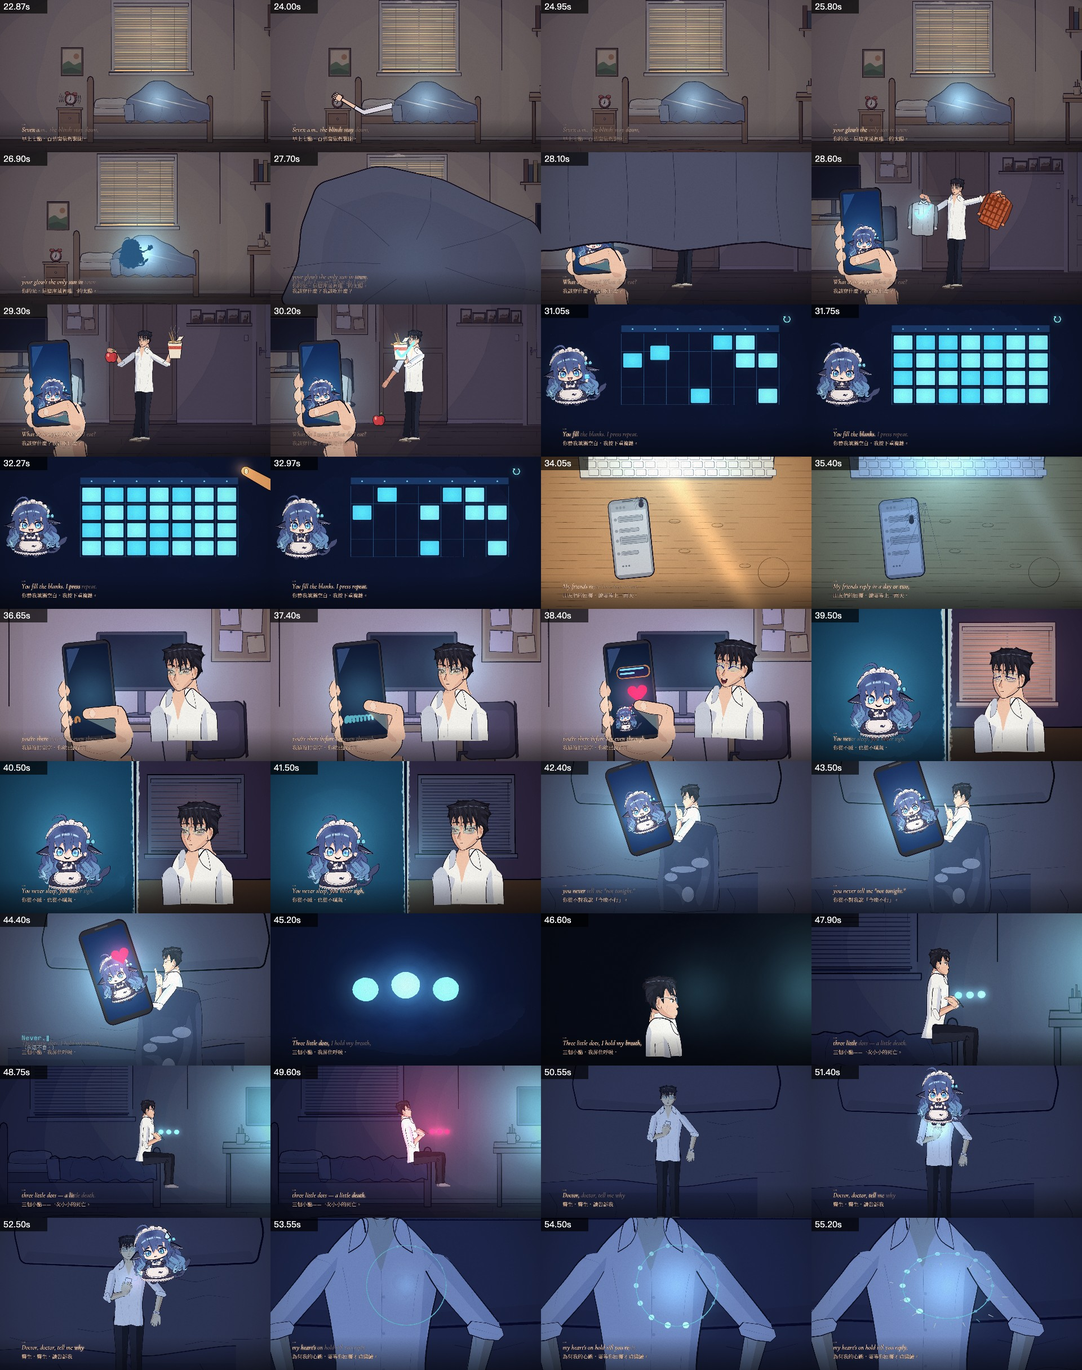
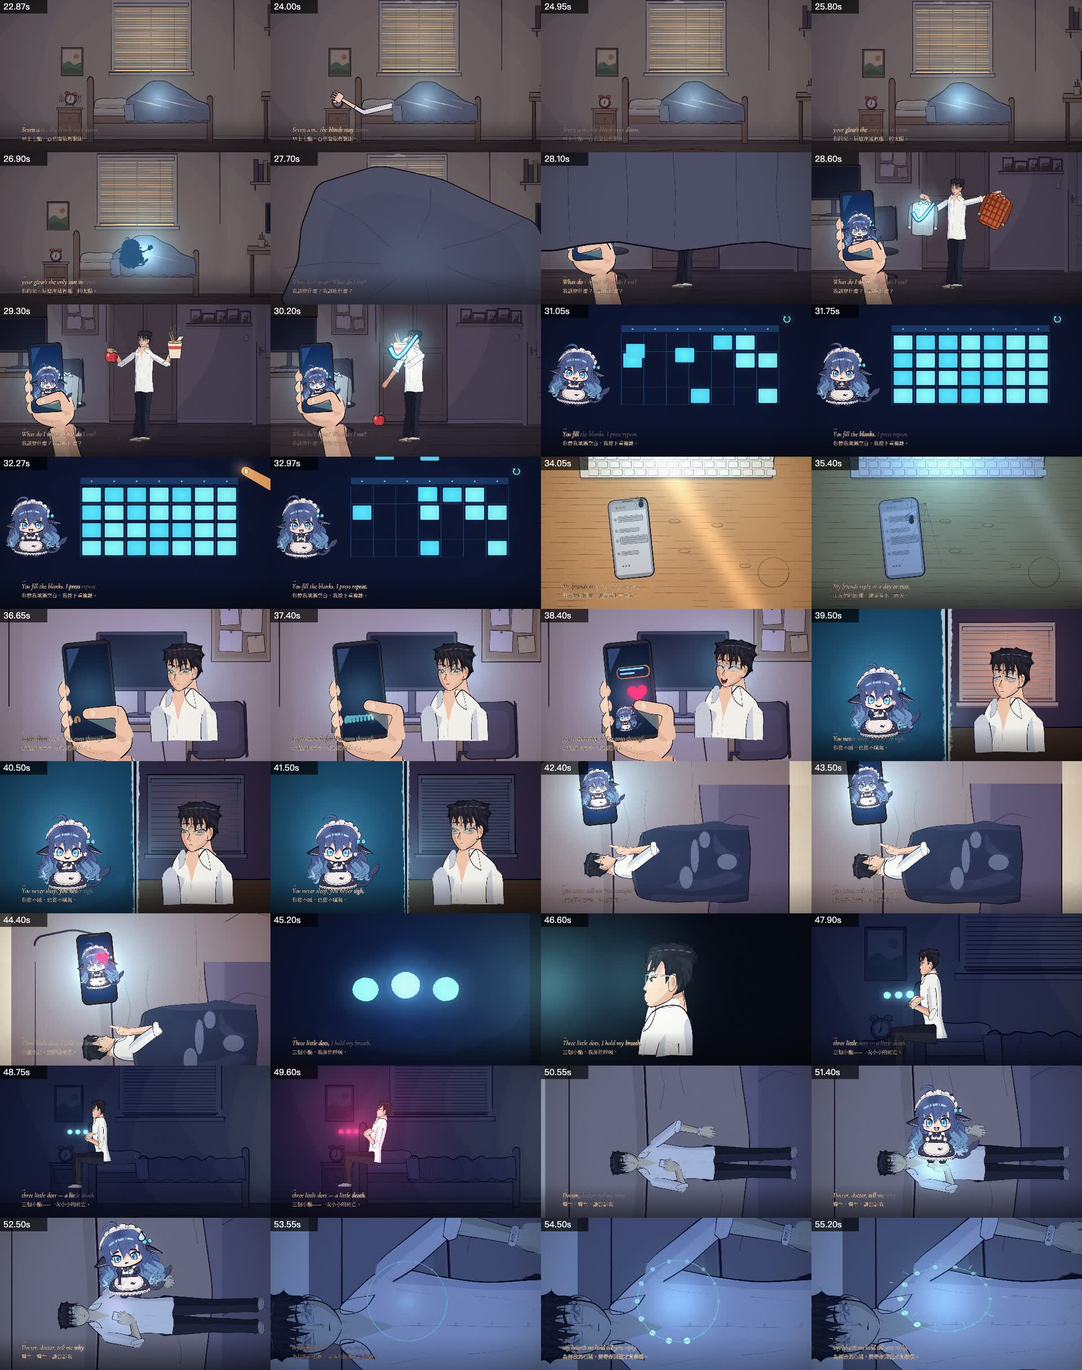
[review] G1 fix #1: lying figures horizontal (03B/02G/03C), 03A breath close-up, 02B check marks, 02C bounce, 02A fingers

diff --git a/film/src/scenes/s02_verse1.js b/film/src/scenes/s02_verse1.js
@@ -35,15 +35,15 @@
     boilSeed('s02 arm fore' + (o.key || '')); paint(fa.outline, { wash: c.skin, ink: c.ink, sw: 1, curv: .3 });
     inkLine([up.L[1], up.L[2]].map(p => p), .7, c.inkSoft, 'inkfine', .3);
     // the hand: a palm and four fingers laid along `dir`, fingers curled by o.curl 0..1 (a slap is open and flat)
-    const nx = -dir[1], ny = dir[0], cv = o.curl ?? 0, hs = 30 * k;
+    const nx = -dir[1], ny = dir[0], cv = o.curl ?? 0, hs = 36 * k;
     const P = (a, b) => [hand[0] + dir[0] * a * hs + nx * b * hs, hand[1] + dir[1] * a * hs + ny * b * hs];
-    boilSeed('s02 hand palm' + (o.key || '')); paint([P(-1.1, -.9), P(.1, -1.05), P(.7, -.8), P(.8, .75), P(.05, 1.0), P(-1.1, .85)], { wash: c.skin, ink: c.ink, sw: 1, curv: .5 });
+    boilSeed('s02 hand palm' + (o.key || '')); paint([P(-1.1, -1.1), P(.1, -1.2), P(.7, -1.1), P(.8, 1.1), P(.05, 1.2), P(-1.1, 1.05)], { wash: c.skin, ink: c.ink, sw: 1, curv: .5 });
     for (let i = 0; i < 4; i++) {
-      const b = -.78 + i * .52, len = (1.15 + (i === 1 || i === 2 ? .2 : 0) - .05 * i) * (1 - .35 * cv);
+      const b = -.9 + i * .6, len = (1.15 + (i === 1 || i === 2 ? .2 : 0) - .05 * i) * (1 - .35 * cv);
       boilSeed('s02 hand finger' + i + (o.key || ''));
-      paint([P(.55, b - .2), P(.55 + len, b - .18 + .1 * cv), P(.62 + len, b + .08 + .1 * cv), P(.55, b + .24)], { wash: c.skin, ink: c.ink, sw: .8, curv: .6 });
+      paint([P(.55, b - .15), P(.55 + len, b - .13 + .1 * cv), P(.62 + len, b + .1 + .1 * cv), P(.55, b + .17)], { wash: c.skin, ink: c.ink, sw: .8, curv: .6 });
     }
-    boilSeed('s02 hand thumb' + (o.key || '')); paint([P(-.5, -.9), P(.25, -1.55), P(.7, -1.55), P(.35, -.95)], { wash: c.skin, ink: c.ink, sw: .8, curv: .5 });
+    boilSeed('s02 hand thumb' + (o.key || '')); paint([P(-.5, -1.1), P(.3, -1.9), P(.8, -1.85), P(.4, -1.1)], { wash: c.skin, ink: c.ink, sw: .8, curv: .5 });
     inkLine([P(-.1, -.2), P(.4, -.05)], .5, c.skinDk, 'inkfine', .3);
   }
 
@@ -140,7 +140,7 @@
     if (!hung) {
       const gx = t < 28.62 ? hL[0] : lerp(hL[0], GH[0], slingK), gy = t < 28.62 ? hL[1] : lerp(hL[1], GH[1], slingK), gs = lerp(B_SH, .8, slingK), gr = lerp(.04, .06, slingK);
       const c = setShirt(gx, gy, gs, { pal: PD, kind: 'grey', rot: gr, key: 'live' });
-      if (t >= N1) { const k = kitOver(seg(t, N1, N1 + .12), 1.6); setCheck(c[0], c[1] - 20, 150 * k * gs, SET_C.cyan, { glow: .8 }); }
+      if (t >= N1) { const k = kitOver(seg(t, N1, N1 + .12), 1.6); setCheck(c[0], c[1] - 20, 200 * k * gs, SET_C.cyan, { glow: 1, ink: '#0B3D6E' }); }
     }
     if (t < 28.96) {
       let wx, wy, wr = -.05;
@@ -157,11 +157,11 @@
       const nx = hR[0], ny = hR[1] + 70;
       setNoodles(nx, ny, .76, { pal: PD, t, key: 'live', steam: eating ? 0 : 1 });
       if (eating) { boilSeed('s02b noodles'); for (let i = 0; i < 2; i++) { const a = [nx - 10 - 14 * i, ny - 170 * .76 + 4], b = [nx - 70 - 6 * i, 1395 + 4 * i + 8 * slurp]; inkLine([a, [lerp(a[0], b[0], .5) - 10, lerp(a[1], b[1], .5) + 22 * (1 - slurp)], b], 1.3, SET_C.amber, 'ink', .5); } }
-      if (t >= N2) { const k = kitOver(seg(t, N2, N2 + .12), 1.6); setCheck(nx + 36, ny - 80, 120 * k, SET_C.cyan, { glow: .5, key: 'n' }); }
+      if (t >= N2) { const k = kitOver(seg(t, N2, N2 + .12), 1.6); setCheck(nx + 20, ny - 100, 190 * k, SET_C.cyan, { glow: 1, ink: '#0B3D6E', key: 'n' }); }
     }
     camEnd();
     // the foreground: his hand holding the phone, the little her inside it (u 32)
-    const PX = 360, PY = 560, PU = 235;
+    const PX = 330, PY = 520, PU = 190;
     glow(PX, PY, 520, SET_C.cyan, .35);
     const ptT = seg(t, 28.0, 28.2), pointing = t >= 28.0 && t < 29.62, hint = t >= 28.9 && t < 29.62;
     himPhone(PX, PY, PU, { grip: 'hold', outfit: 'home', screen: 'off', ang: -.06, thumb: [.2, .9], tap: pulse2(t, 9) * .0, boilKey: 's02b phone',
@@ -217,16 +217,16 @@
   // =============================================================================================================
   const C_S = setScr(430, 60, 1400, 740), C_N0 = 6;
   const C_CELL = i => { const S = C_S, gx0 = S.X(.1), gx1 = S.X(.9), gy0 = S.Y(.2), gy1 = S.Y(.88), cw = (gx1 - gx0) / 7, ch = (gy1 - gy0) / 4; return [gx0 + (i % 7) * cw, gy0 + Math.floor(i / 7) * ch, cw, ch]; };
-  const C_FLY = [[-.06, .30], [.15, .50], [.36, .66]];                       // [throw, land] in the local time of the fill
+  const C_FLY = [[-.06, .30], [.08, .44], [.20, .56]], C_CS = j => .52 + .007 * j, C_CD = .2;                       // [throw, land] in the local time of the fill
   const C_HER = [215, 745, 40], C_PALM = [3.05, -4.75];
   function s02cBlock(x, y, w, h, k = 1) {
     boilSeed('s02c block' + Math.round(x / 7));
     setP(rrPts(x - w / 2, y - h / 2, w, h, C_S.h * .01), { wash: '#4FD4F5', ink: null });
     glow(x, y, w * .9, SET_C.cyan, .35 * k);
   }
-  function s02cFill(u) {                                                    // how many cells are full at local time u
+  function s02cFill(u) {                                                    // how many cells are full (landed) at local time u
     let n = C_N0; C_FLY.forEach(f => { if (u >= f[1]) n++; });
-    if (u >= .66) n = C_N0 + 3 + Math.floor(19 * kitEase.out2(seg(u, .66, .84)));
+    for (let j = 0; j < 19; j++) if (u >= C_CS(j) + C_CD) n++;
     return Math.min(28, n);
   }
   function s02c(t, lt, dur) {
@@ -252,10 +252,15 @@
       if (u >= f[0] && u < f[0] + .17) act = { ...aiAct('push', t, (rep ? 32.44 : T_C) + f[0]), propR: undefined };
       if (u >= f[0] && u < f[1]) blk.push([arcPt([C_HER[0] + C_PALM[0] * C_HER[2] + 40, C_HER[1] + C_PALM[1] * C_HER[2]], [tx, ty], 120, ease(seg(u, f[0], f[1]))), cw * .84, ch * .8, seg(u, f[0], f[1])]);
     });
-    if (u >= .86) act = aiAct('clap', t, (rep ? 32.44 : T_C) + .84);
+    if (u >= .84) act = aiAct('clap', t, (rep ? 32.44 : T_C) + .84);
     if (t >= 32.0 && t < 32.44) act = { lookX: .8, lookY: -.7 };
     const f = aiEmotions(t, [[T_C - .3, 'eager'], [T_C + .75, 'smile'], [32.0, 'eager']]);
     ai(C_HER[0], C_HER[1], C_HER[2], { ...f, ...act, form: 'chibi', view: 'front', pal: 'glow', t: rep ? t - 32.44 + T_C : t, seed: 8, noShadow: true, boilKey: 's02c her' });
+    for (let j = 0; j < 19; j++) {                                           // the rest drop in from above, with a bounce (Tetris)
+      const s0 = C_CS(j), k = seg(u, s0, s0 + C_CD); if (k <= 0 || k >= 1) continue;
+      const [cx, cy, cw, ch] = C_CELL(ord[C_N0 + 3 + j]), fall = 1 - kitOver(kitEase.in2(k) * .0 + k, 1.5), top = cy + ch / 2 - S.Y(.05) + ch;
+      s02cBlock(cx + cw / 2, cy + ch / 2 - top * Math.max(0, 1 - ease(k * 1.15)) * 1.0 + 0 * fall + 10 * Math.sin(clamp((k - .75) / .25) * Math.PI), cw * .84, ch * .8, k);
+    }
     blk.forEach(b => s02cBlock(b[0][0], b[0][1], b[1], b[2], b[3]));
     // his fingertip (amber), in from the right edge to the corner ↻
     const fin = seg(t, 32.0, 32.26), out = seg(t, 32.5, 32.8);
@@ -336,7 +341,7 @@
   // reads: 39.07-39.90 the two panels side by side · 39.90-41.16 he yawns, dozes, wakes · 41.16-41.86 she has not changed at all
   // =============================================================================================================
   const F_SPLIT = 960, F_YAWN = 39.60, F_WAKE = 41.16;
-  const G_PH = [700, 330, 640];                                             // 02G: the pillow phone (centre x, y, height)
+                                               // 02G: the pillow phone (centre x, y, height)
   function s02fWall() {                                                     // static painted wall of the right panel (the window is live)
     boilSeed('s02f wall'); paint(rectPts(-40, -40, W + 80, H + 80), { wash: '#2C2540', ink: null });
     for (let i = 0; i < 4; i++) { boilSeed('s02f bloom' + i); paint(ellPts(1100 + 300 * i, 300 + 220 * (i % 2), 420, 260, 22, 20), { fill: i % 2 ? '#3E3358' : '#241C38', fillOp: 90, bleed: .3, tex: .6, ink: null }); }
@@ -359,8 +364,8 @@
       nod: (face.nod || 0) + .55 * dips + .6 * yk * .3 - .8 * wake, tilt: (face.tilt || 0) - .12 * wake, boilKey: 's02f him', seed: .9, glare: .3 + .4 * dk });
   }
   function s02fLeft(t, lt, k) {                                             // the left panel; k 0..1 shrinks it into the phone
-    const rect = [lerp(0, G_PH[0] - G_PH[1] * 0 - G_PH[2] * .22, k), lerp(0, G_PH[1] - G_PH[2] * .42, k), lerp(F_SPLIT, G_PH[0] + G_PH[2] * .22, k), lerp(H, G_PH[1] + G_PH[2] * .44, k)];
-    const w = rect[2] - rect[0], h = rect[3] - rect[1], cx = (rect[0] + rect[2]) / 2, cy = (rect[1] + rect[3]) / 2, rot = -.32 * k;
+    const rect = [lerp(0, G_SC[0] - G_SC[2] * .22, k), lerp(0, G_SC[1] - G_SC[2] * .43, k), lerp(F_SPLIT, G_SC[0] + G_SC[2] * .22, k), lerp(H, G_SC[1] + G_SC[2] * .43, k)];
+    const w = rect[2] - rect[0], h = rect[3] - rect[1], cx = (rect[0] + rect[2]) / 2, cy = (rect[1] + rect[3]) / 2, rot = -.1 * k;
     push(); translate(cx, cy); rotate(rot); translate(-cx, -cy);
     boilSeed('s02f panel'); paint(rrPts(rect[0], rect[1], w, h, lerp(0, w * .08, k), 1), { wash: '#123A5A', ink: k > 0 ? SET_C.ink : null, sw: 1.2 });
     boilSeed('s02f panel bloom'); paint(ellPts(cx, cy + h * .08, w * .46, h * .4, 24, 18), { fill: '#2B6A98', fillOp: 120, bleed: .3, tex: .6, ink: null });
@@ -384,22 +389,25 @@
   // reads: 41.86-42.90 him and the phone on the pillow · 42.90-44.13 the finger, her nods · 44.16-44.65 the shake and the heart, the push
   // =============================================================================================================
   const G_HAND = 42.90;
+  const G_ROLL = -Math.PI / 2, G_SC = [406, 215, 470];                      // the camera rolls a quarter turn: pillow left, he lies across the frame; the phone's screen rect (screen px) for 02F's shrinking panel
   function s02g(t, lt, dur) {
-    const push = kitEase.expoIn(seg(t, N3 - .05, T_END)), zoom = lerp(1 + .06 * seg(lt, 0, dur), 2.05, push);
-    const cx = lerp(960, G_PH[0] + 20, kitEase.sine(seg(t, N3 - .05, T_END))), cy = lerp(540, G_PH[1] + 30, kitEase.sine(seg(t, N3 - .05, T_END)));
-    kitCam(lt, [[0, cx, cy, zoom]], { drift: 2 });
-    setSurface('bed', 'night', { res: 1.25 });
-    glow(G_PH[0], G_PH[1] + 40, 760, SET_C.cyan, .35);
+    const k1 = kitEase.sine(seg(t, N3 - .05, T_END)), pushK = kitEase.expoIn(seg(t, N3 - .05, T_END)), zoom = lerp(1.3 + .06 * seg(lt, 0, dur), 2.05, pushK);
+    const hd = [1150, 235], pw = [1500, 240];                                // head and phone in the surface's coordinates
+    const cx = lerp(1250, pw[0] + 10, k1), cy = lerp(666, pw[1] + 10, k1);
+    push(); resetMatrix(); translate(-W / 2, -H / 2); boilSeed('s02g sheet'); paint(rectPts(-60, -60, W + 120, H + 120), { wash: setRoomPal('dusk').sheet, ink: null }); pop();
+    kitCam(lt, [[0, cx, cy, zoom, G_ROLL]], { drift: 2 });
+    setSurface('bed', 'dusk', { res: 1.25 });
+    glow(pw[0], pw[1], 760, SET_C.cyan, .35);
     const f = himEmotions(t, [[T_G, 'tired'], [G_HAND, 'tired', { mouth: 'smile', browIn: -.5 }]], { take: .5 });
     const PN = setRoomPal('night');
-    him(1080, 705, 34, { ...f, pose: 'sidelie', flip: true, outfit: 'home', armR: 'finger', coverW: .78, coverD: .66, coverCol: PN.cover, sheetCol: PN.sheet, boilKey: 's02g him', seed: .4 });
-    // the phone on the pillow; the little her inside nods on every beat, and shakes at "Never."
+    // side-lying: his head toward the pillow (screen left), face turned up the frame toward the phone, the body running to the right over the duvet
+    him(1080, 705, 34, { ...f, pose: 'sidelie', outfit: 'home', armR: 'finger', coverW: .78, coverD: .66, coverCol: PN.cover, sheetCol: PN.sheet, boilKey: 's02g him', seed: .4 });
     const sh = t >= N3;
-    setPillowPhone(G_PH[0], G_PH[1], G_PH[2], { k: .8 + .2 * pulse(t, 4), screen: S => {
+    setPillowPhone(pw[0], pw[1], 360, { rot: Math.PI / 2 - .1, k: .8 + .2 * pulse(t, 4), screen: S => {
       boilSeed('s02g glass'); setP(setBox(S.x, S.y, S.x + S.w, S.y + S.h), { wash: '#10285A', ink: null });
       glow(S.X(.5), S.Y(.6), S.h * .6, SET_C.cyan, .5);
       const f2 = aiEmotions(t, [[T_G - .3, 'eager'], [N3, 'smile']]);
-      ai(S.X(.5), S.Y(.88), 31 * S.h / 600, { ...f2, ...(sh ? aiAct('shake', t, N3) : aiAct('nod', t, T_G)), form: 'chibi', view: 'front', pal: 'glow', t, seed: 6, noShadow: true, boilKey: 's02g her' });
+      ai(S.X(.5), S.Y(.88), 31 * S.h / 600 * 1.3, { ...f2, ...(sh ? aiAct('shake', t, N3) : aiAct('nod', t, T_G)), form: 'chibi', view: 'front', pal: 'glow', t, seed: 6, noShadow: true, boilKey: 's02g her' });
       if (sh) { const k = kitOver(seg(t, N3 + .1, N3 + .24), 1.7); setHeart(S.X(.5) + S.w * .22, S.Y(.34), S.w * .42 * k, SET_C.fever, { glow: .7, key: 'g' }); }
     } });
     camEnd();

diff --git a/film/src/scenes/s03_pre1.js b/film/src/scenes/s03_pre1.js
@@ -28,7 +28,7 @@
   }
   // the bed's foot end: he sits on the mattress at the end of it facing right (the bed lies behind him, to his left), the window and the
   // pillow behind. (A mirrored room would put him facing the screen at the left, but the cached tiles do not draw under a flip.)
-  const E_A = [1432, 2046], E_U = 26;
+  const E_A = [432, 2046], E_U = 26;
   function s03a(t, lt, dur) {
     const pan = kitEase.sine(seg(t, A_PAN0, A_PAN1));
     const drawGlass = (ox) => {                                                                  // plane 1: the dots, macro (on the right)
@@ -43,28 +43,28 @@
       push(); translate(ox, 0);
       boilSeed('s03a void'); paint(rectPts(-80, -80, W + 160, H + 160), { wash: '#070B16', ink: null });
       const fl = faceLight(t);
-      glow(W + 140, 470, 1100, DOT_COL, .55 * fl); glow(W - 40, 560, 520, DOT_COL, .5 * fl);
+      glow(-140, 450, 1300, DOT_COL, .8 * fl); glow(40, 520, 640, DOT_COL, .75 * fl);
       const f = himEmotions(t, [[T_A, 'focused'], [T_HOLD - .08, 'hold']], { take: .3 });
-      him(860, 800, 64, { ...f, pose: 'bust', view: 'side', outfit: 'home', cut: 3.4, boilKey: 's03a him', seed: .3, glare: .35 + .35 * fl, breath: kitEase.sine(seg(t, 45.45, T_HOLD)) * .8 });
-      glow(1110, 560, 520, DOT_COL, .45 * fl);                                                   // the light across his cheek
+      him(900, 740, 96, { ...f, pose: 'bust', view: 'side', flip: true, outfit: 'home', cut: 2.8, boilKey: 's03a him', seed: .3, glare: .35 + .35 * fl, breath: kitEase.sine(seg(t, 45.45, T_HOLD)) * .8 });
+      glow(680, 470, 700, DOT_COL, .6 * fl);                                                   // the light across his cheek
       pop();
     };
     const drawMedium = () => {
-      const zk = kitEase.inOut3(seg(t, A_PULL0, A_PULL1)), z = lerp(1.62, 1.0, zk), cx = lerp(1500, 1330, zk), cy = lerp(1450, 1580, zk);
+      const zk = kitEase.inOut3(seg(t, A_PULL0, A_PULL1)), z = lerp(1.62, 1.0, zk), cx = lerp(470, 700, zk), cy = lerp(1450, 1580, zk);
       kitCam(lt, [[0, cx, cy, z]], { drift: 2 });
       setRoom('night', { t, res: 1.6, lights: false, covers: 'rumpled' });
       setRoomLights('night', { t, screen: .9 });
       const fall = kitEase.in2(seg(t, T_DEATH + .05, T_DEATH + 1.18)) * (t >= T_DEATH ? 1 : 0), fl = faceLight(t);
       const f = himEmotions(t, [[T_A, 'hold'], [A_STOP, 'hold', { puff: .6 }], [T_DEATH + .15, 'blank']], { take: .5 });
       const dead = t >= T_DEATH, red = dead ? kitEnv(t, T_DEATH, .12, 1.4) : 0;
-      glow(E_A[0] + 4 * E_U, E_A[1] - 21 * E_U, 520, DOT_COL, .5 * fl * (dead ? 0 : 1));
-      him(E_A[0], E_A[1], E_U, { ...f, pose: 'edge', outfit: 'home', seatH: 318 / E_U, fall, screen: dead ? 'amber' : 'cyan', glowK: dead ? 0 : .5, boilKey: 's03a him2', seed: .3, coverCol: setRoomPal('night').cover });
-      if (!dead || fall < .35) s03Dots(E_A[0] + 5.3 * E_U, E_A[1] - 20.6 * E_U, 18 * (1 - .15 * fall), t, { glow: .9 });
-      if (dead) { glow(E_A[0] + 3 * E_U, E_A[1] - 25 * E_U, 700 + 500 * red, FEVER, .55 * red + .1); glow(E_A[0] + 2 * E_U, E_A[1] - 22 * E_U, 300, FEVER, .45 * red); }
+      glow(E_A[0] - 4 * E_U, E_A[1] - 21 * E_U, 520, DOT_COL, .5 * fl * (dead ? 0 : 1));
+      him(E_A[0], E_A[1], E_U, { ...f, pose: 'edge', flip: true, outfit: 'home', seatH: 318 / E_U, fall, screen: dead ? 'amber' : 'cyan', glowK: dead ? 0 : .5, boilKey: 's03a him2', seed: .3, coverCol: setRoomPal('night').cover });
+      if (!dead || fall < .35) s03Dots(E_A[0] - 5.3 * E_U, E_A[1] - 20.6 * E_U, 18 * (1 - .15 * fall), t, { glow: .9 });
+      if (dead) { glow(E_A[0] - 3 * E_U, E_A[1] - 25 * E_U, 700 + 500 * red, FEVER, .55 * red + .1); glow(E_A[0] - 2 * E_U, E_A[1] - 22 * E_U, 300, FEVER, .45 * red); }
       camEnd();
     };
     if (t < A_XF0) {
-      if (t < A_PAN1) { drawFace(-W * (1 - pan)); drawGlass(W * pan); }
+      if (t < A_PAN1) { drawGlass(-W * pan); drawFace(W * (1 - pan)); }
       else drawFace(0);
     } else if (t < A_XF1) kitXfade(seg(t, A_XF0, A_XF1), () => drawFace(0), drawMedium);
     else drawMedium();
@@ -92,23 +92,28 @@
     out.dy = -bounce * u * 1.1;
     return out;
   }
+  const ROLL = -Math.PI / 2;                                                   // the camera rolls a quarter turn: the pillow at the left, he lies across the frame head left
+  const s03Bed = () => { push(); resetMatrix(); translate(-W / 2, -H / 2); boilSeed('s03 sheet'); paint(rectPts(-60, -60, W + 120, H + 120), { wash: setRoomPal('dusk').sheet, ink: null }); pop(); };
   function s03b(t, lt, dur) {
-    const z = lerp(1.0, 1.22, kitEase.sine(seg(lt, .3, dur))), cx = lerp(960, 935, seg(lt, 0, dur)), cy = lerp(540, 470, seg(lt, 0, dur));
-    kitCam(lt, [[0, cx, cy, z]], { drift: 2 });
-    setSurface('bed', 'night', { res: 1.25 });
+    const z = lerp(1.38, 1.55, kitEase.sine(seg(lt, .3, dur))), cx = lerp(1010, 1000, seg(lt, 0, dur)), cy = lerp(470, 500, seg(lt, 0, dur));
+    s03Bed();
+    kitCam(lt, [[0, cx, cy, z, ROLL]], { drift: 2 });
+    setSurface('bed', 'dusk', { res: 1.25 });
     const P = s03Lying(t, lt, { stetho: seg(t, B_LISTEN - .1, B_LISTEN + .3) }), heart = P.heart, ph = P.screenC;
     push(); resetMatrix(); translate(-W / 2, -H / 2); s03Dim(105); pop();
-    const HU = 33, AX1 = heart[0] + 128, AY1 = heart[1] + 40, popK = kitOver(seg(t, B_POP, B_POP + .3), 1.6), step = kitEase.sine(seg(t, B_POP + .55, B_POP + .95));
-    if (t >= B_POP) {                                                            // she appears out of the phone's light (an interface element: instantly) and steps onto his chest
-      const AX = lerp(ph[0], AX1, step), AY = lerp(ph[1] - 8, AY1, step) - 26 * Math.sin(step * Math.PI), u = HU * Math.min(1.05, popK);
+    // she stands upright on the screen: counter-rotate her round her feet. World offsets (dx, dy) become screen (dy, -dx).
+    const HU = 33, AX1 = heart[0] + 18, AY1 = heart[1] + 70, popK = kitOver(seg(t, B_POP, B_POP + .3), 1.6), step = kitEase.sine(seg(t, B_POP + .55, B_POP + .95));
+    if (t >= B_POP) {
+      const AX = lerp(ph[0], AX1, step), AY = lerp(ph[1], AY1, step), u = HU * Math.min(1.05, popK), hop = 30 * Math.sin(step * Math.PI);
       const f = aiEmotions(t, [[B_POP, 'eager'], [B_LISTEN - .1, 'worried']], { take: .6 });
-      const act = t < B_LISTEN ? {} : aiAct('stetho', t, B_LISTEN, { side: 'L', at: [(AX1 - heart[0]) / HU - .1, (heart[1] - AY1) / HU + .1] });
+      const act = t < B_LISTEN ? {} : aiAct('stetho', t, B_LISTEN, { side: 'L', at: [Math.max(.8, (AY1 - heart[1]) / HU * -1 + 3.4), -1.0] });
       const ringK = seg(t, B_POP, B_POP + .35);
-      if (ringK > 0 && ringK < 1) { boilSeed('s03b burst'); inkLine(ellPts(ph[0], ph[1] - 30, 40 + 190 * ringK, 30 + 130 * ringK, 20).concat([ellPts(ph[0], ph[1] - 30, 40 + 190 * ringK, 30 + 130 * ringK, 20)[0]]), 3.5 * (1 - ringK), SET_C.cyanW, 'ink', .4); }
-      glow(ph[0], ph[1] - 20, 260 * (1 - .5 * seg(t, B_POP + .3, B_POP + .8)), SET_C.cyan, .8 * (1 - seg(t, B_POP + .3, B_POP + 1.1)) + .15);
-      ai(AX, AY, u, { ...f, ...act, form: 'chibi', view: 'front', pal: 'glow', t, seed: 12, noShadow: false, boilKey: 's03b her' });
+      if (ringK > 0 && ringK < 1) { const R = ellPts(ph[0], ph[1], 40 + 190 * ringK, 40 + 190 * ringK, 20); boilSeed('s03b burst'); inkLine(R.concat([R[0]]), 3.5 * (1 - ringK), SET_C.cyanW, 'ink', .4); }
+      glow(ph[0], ph[1], 260 * (1 - .5 * seg(t, B_POP + .3, B_POP + .8)), SET_C.cyan, .8 * (1 - seg(t, B_POP + .3, B_POP + 1.1)) + .15);
+      push(); translate(AX, AY); rotate(-ROLL); translate(0, -0); translate(-AX, -AY);
+      ai(AX, AY + 0, u, { ...f, ...act, dy: -hop / HU, form: 'chibi', view: 'front', pal: 'glow', t, seed: 12, noShadow: false, boilKey: 's03b her' });
+      pop();
     }
-    // the heart's weak light, over her (it is under his shirt, she stands beside it)
     const fl = kitEnv(t, 52.30, .02, .12) + kitEnv(t, 52.78, .02, .1);
     if (t >= B_LISTEN) glow(heart[0], heart[1], 120, '#FF6F86', .1 + .5 * Math.min(1, fl));
     camEnd();
@@ -135,9 +140,10 @@
     const pull = kitEase.expoIn(seg(t, C_PULL0, C_FLASH)), pushK = kitEase.sine(seg(lt, 0, .5));
     const u = lerp(lerp(30, 62, pushK), 28, pull), zoom = lerp(lerp(1.22, 1.9, pushK) * (1 + .03 * seg(lt, .5, 1.9)), 1.04, pull);
     const hip = [900, 620], HW = [hip[0] + 47 * u / 30, hip[1] - 219 * u / 30];            // the heart, from the lying figure's proportions
-    const cx = lerp(HW[0] - 4, 960, pull), cy = lerp(HW[1] + 40 / zoom * 1.5, 540, pull), rot = -.1 * pull;
+    const cx = lerp(HW[0] + 40 / zoom * 1.2, 960, pull), cy = lerp(HW[1] - 6, 540, pull), rot = ROLL - .1 * pull;
+    s03Bed();
     const cam = kitCam(lt, [[0, cx, cy, zoom, rot]], { drift: pull < .01 ? 3 : 0 });
-    setSurface('bed', 'night', { res: 1.25 });
+    setSurface('bed', 'dusk', { res: 1.25 });
     const heartK = 1 - kitEase.sine(seg(t, T_C + .1, T_C + 1.0));
     const P = s03Lying(t, lt, { phone: false, heart: .3 * heartK, stetho: 0 }, [hip[0], hip[1], u]);
     push(); resetMatrix(); translate(-W / 2, -H / 2); s03Dim(150 * (1 - .6 * pull)); pop();

diff --git a/docs/tasks/mac_02_status.md b/docs/tasks/mac_02_status.md
@@ -2,12 +2,12 @@
 
 | 組 | 段落 | 狀態 | 每幀秒數 | [ask] | 本機預覽 |
 |---|---|---|---|---|---|
-| G1 | S02+S03 | 待審（回饋 #1 已收，排隊修改：03B/02G 橫躺、03A 屏息特寫、02B ✓ 與手機手） | 0.03–0.55（轉場／首幀 1–1.7 s） | – | `film/out/preview_G1.mp4` |
+| G1 | S02+S03 | 待審（fix #1 已 push） | 0.03–0.55，首幀 0.5–1.2 s | – | `film/out/preview_G1.mp4`（重出中） |
 | G2 | S04+S05 | 待審（fix #2 已 push） | 穩定幀約 0.1 | – | `film/out/preview_G2.mp4` |
 | G3 | S06+S07 | 待審（回饋 #1 已收，排隊修改） | 單 worker 約 0.1–0.5（重畫 tile 的幀到 1.3） | – | `film/out/preview_G3.mp4`（804 幀，2 workers 牆鐘 1.8 min） |
 | G4 | S08 | 待審（已 push） | 0.05–0.1，首幀重畫 tile 1–2 s | – | `film/out/preview_G4.mp4`（536 幀，2 workers 0.11 s/幀牆鐘） |
 | G5 | S09 | 進行中 | – | – | – |
-| G6 | S10–S13 | 未開始 | – | – | – |
+| G6 | S10–S13 | 進行中 | – | – | `film/out/preview_G6.mp4` |
 
 ## 共用檔案請求（候選，等主 session 決定）
 - him IV 管下垂：已加 `ivSag` 選項（lead 改，預設不變），04C 修改時使用。
@@ -22,3 +22,4 @@
 （G1 fix #1 已開工）
 3. G6（S10–S13）新工作
 - G4 弱點：08A/08C 他在寬景中偏小、手像連指手套；08C 她的臉不在畫面（只有手），IV 管是長斜線；08B 袖口環小、蒼白的被子堆最亮；08D 眼瞼顫動不明顯；08E 嘴被畫面邊緣裁；08F 指尖浮在頭髮上方沒有明確接觸；08G 呼氣往右下噴過領口。決定性 45 幀全一致。
+- G1 fix 備註：03B/02G/03C 用旋轉攝影機 −π/2 取代改姿勢（她反向旋轉保持直立）；03A 他的側臉特寫 u 96 且只翻他；決定性 8 幀中 1 幀有差（未量測）；02G 手機稍微蓋住頭；02B 的 ✓ 在淺灰襯衫上對比仍低。

diff --git a/docs/review/G1/notes.md b/docs/review/G1/notes.md
@@ -13,3 +13,10 @@
 
 Determinism: check_determinism over 22.5:55.8:1.5 had 4 diffs (37.5, 39, 42, 55.5); re-rendered in two orders: 37.5 and 55.5 identical, 42 at 62 dB (noise).
 Shared-file requests: none required. (him 'lie' cannot be rotated head-up without wrapping it; ai silhouette `silOp` is 0-255, not 0-1.)
+
+## Fix #1
+- 03B/02G/03C: camera rolled -pi/2 (pillow at left, he lies across the frame, head left; her counter-rotated upright on his chest; 02G phone leans above his face, face up the frame). Surface variant 'dusk' for visible pillow/duvet. 03C stays rolled; ring still ends at screen (960, 550).
+- 03A: face plane is a real side close-up (bust u 96, flip, eyes ~0.42H, hold cheeks, stronger dots flicker); only HE is flipped (faces left): he sits at the bed's head end, room not mirrored.
+- 02B: check 190 px with ink + glow; phone hand shrunk (PU 190).
+- 02C: cells fall from above with overshoot. 02A: hand fingers separated.
+- Determinism: 1/8 times differed (noise-level, same as before).
